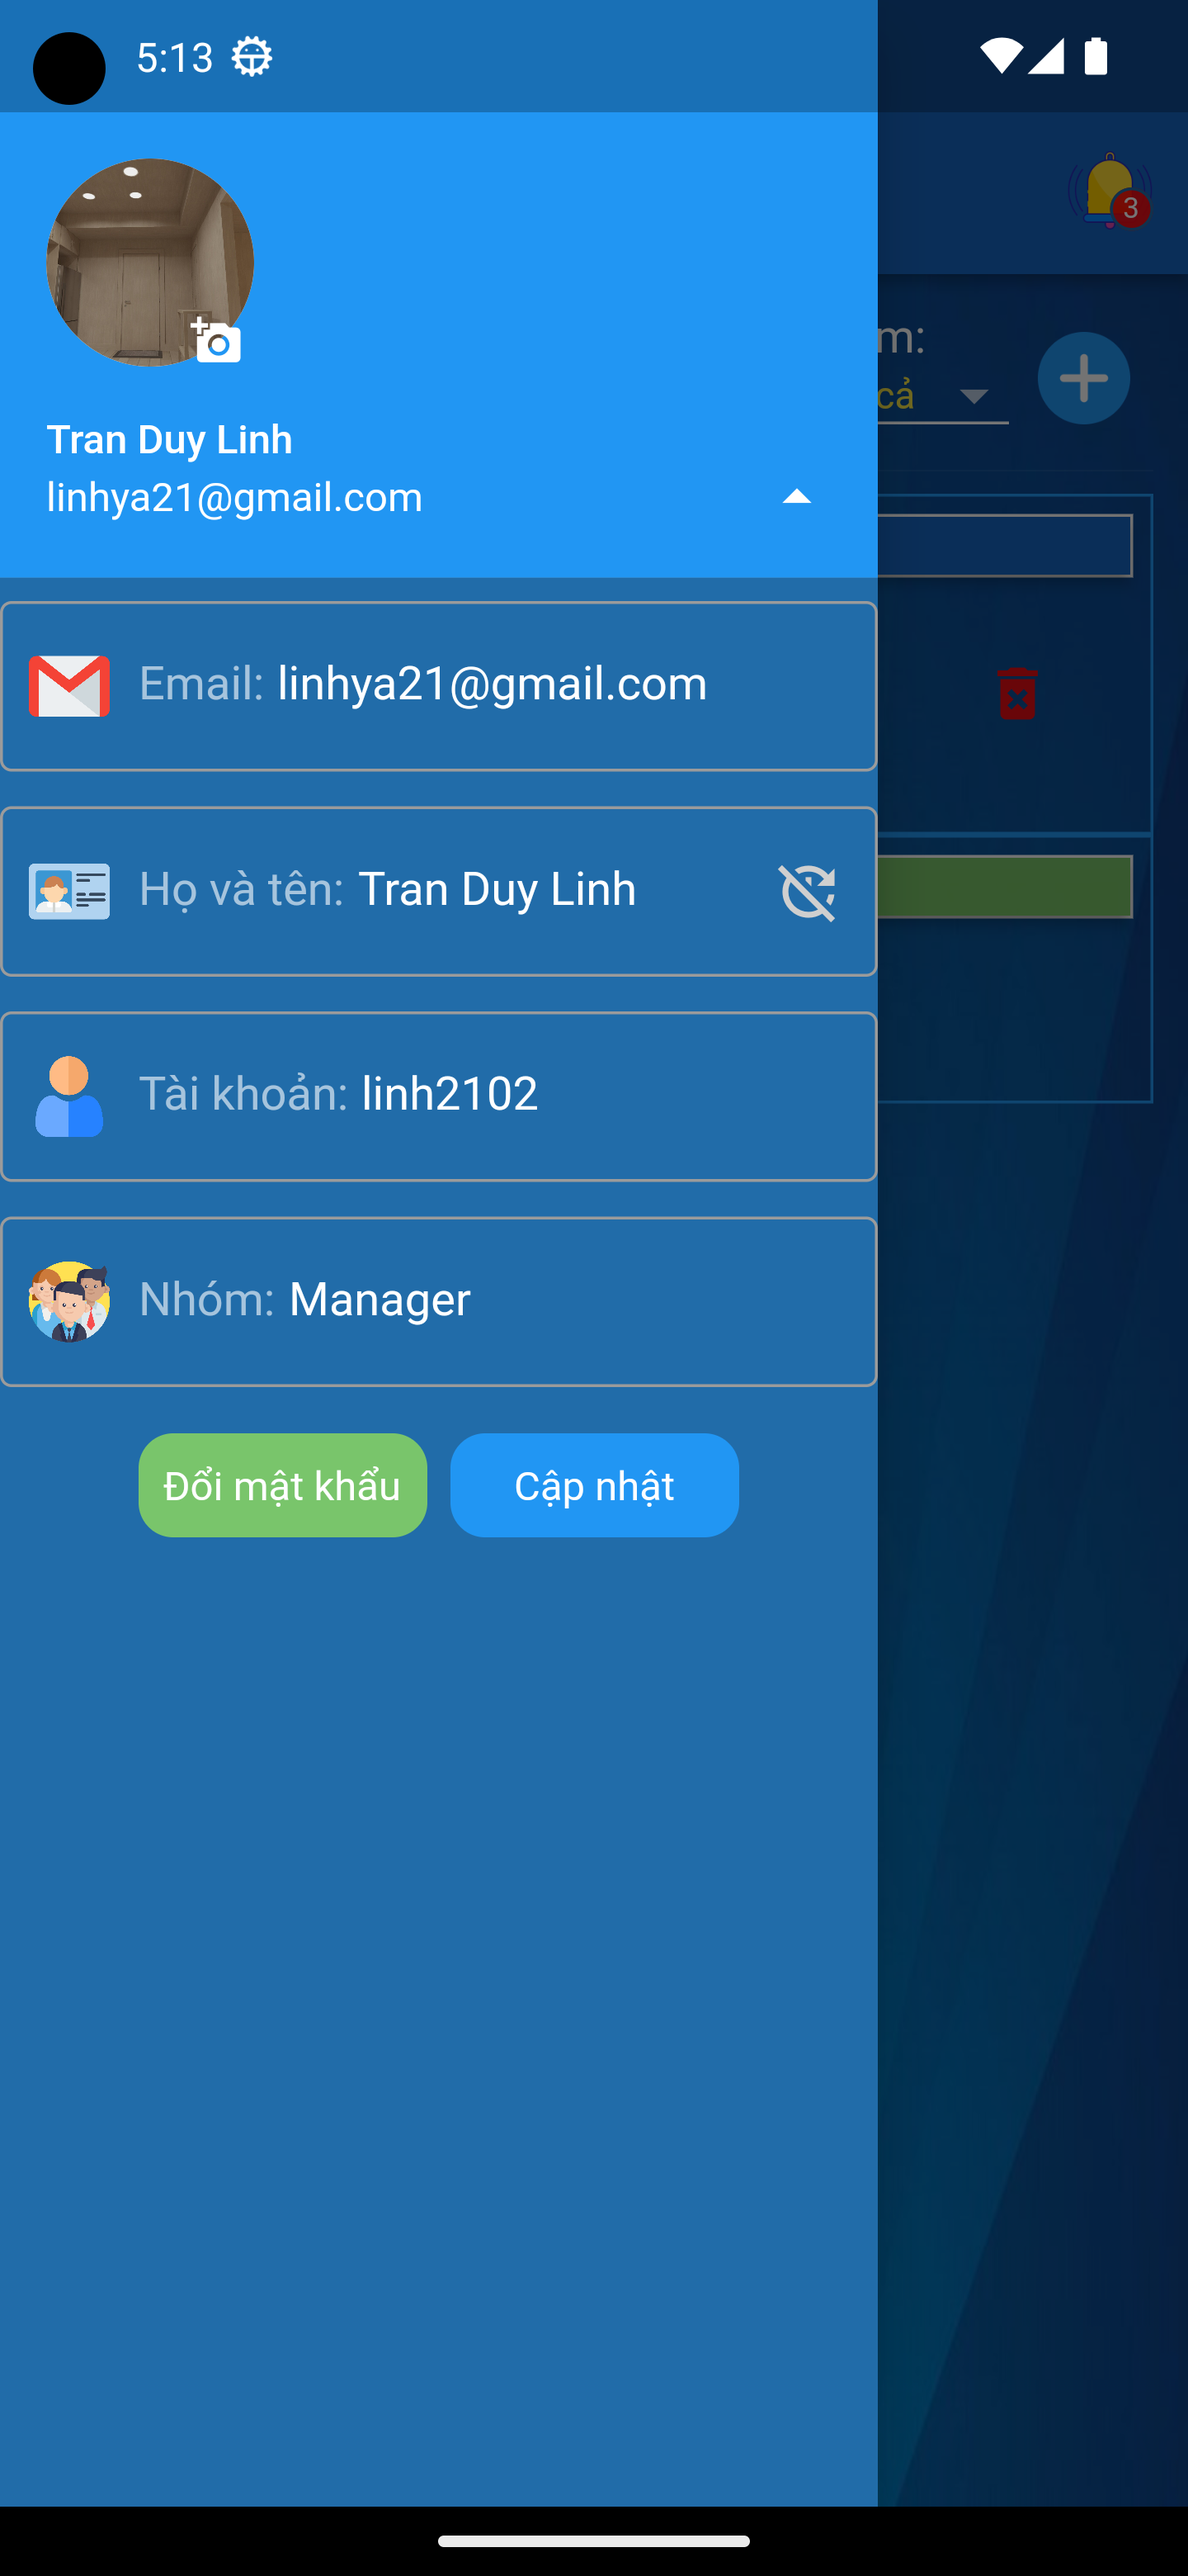
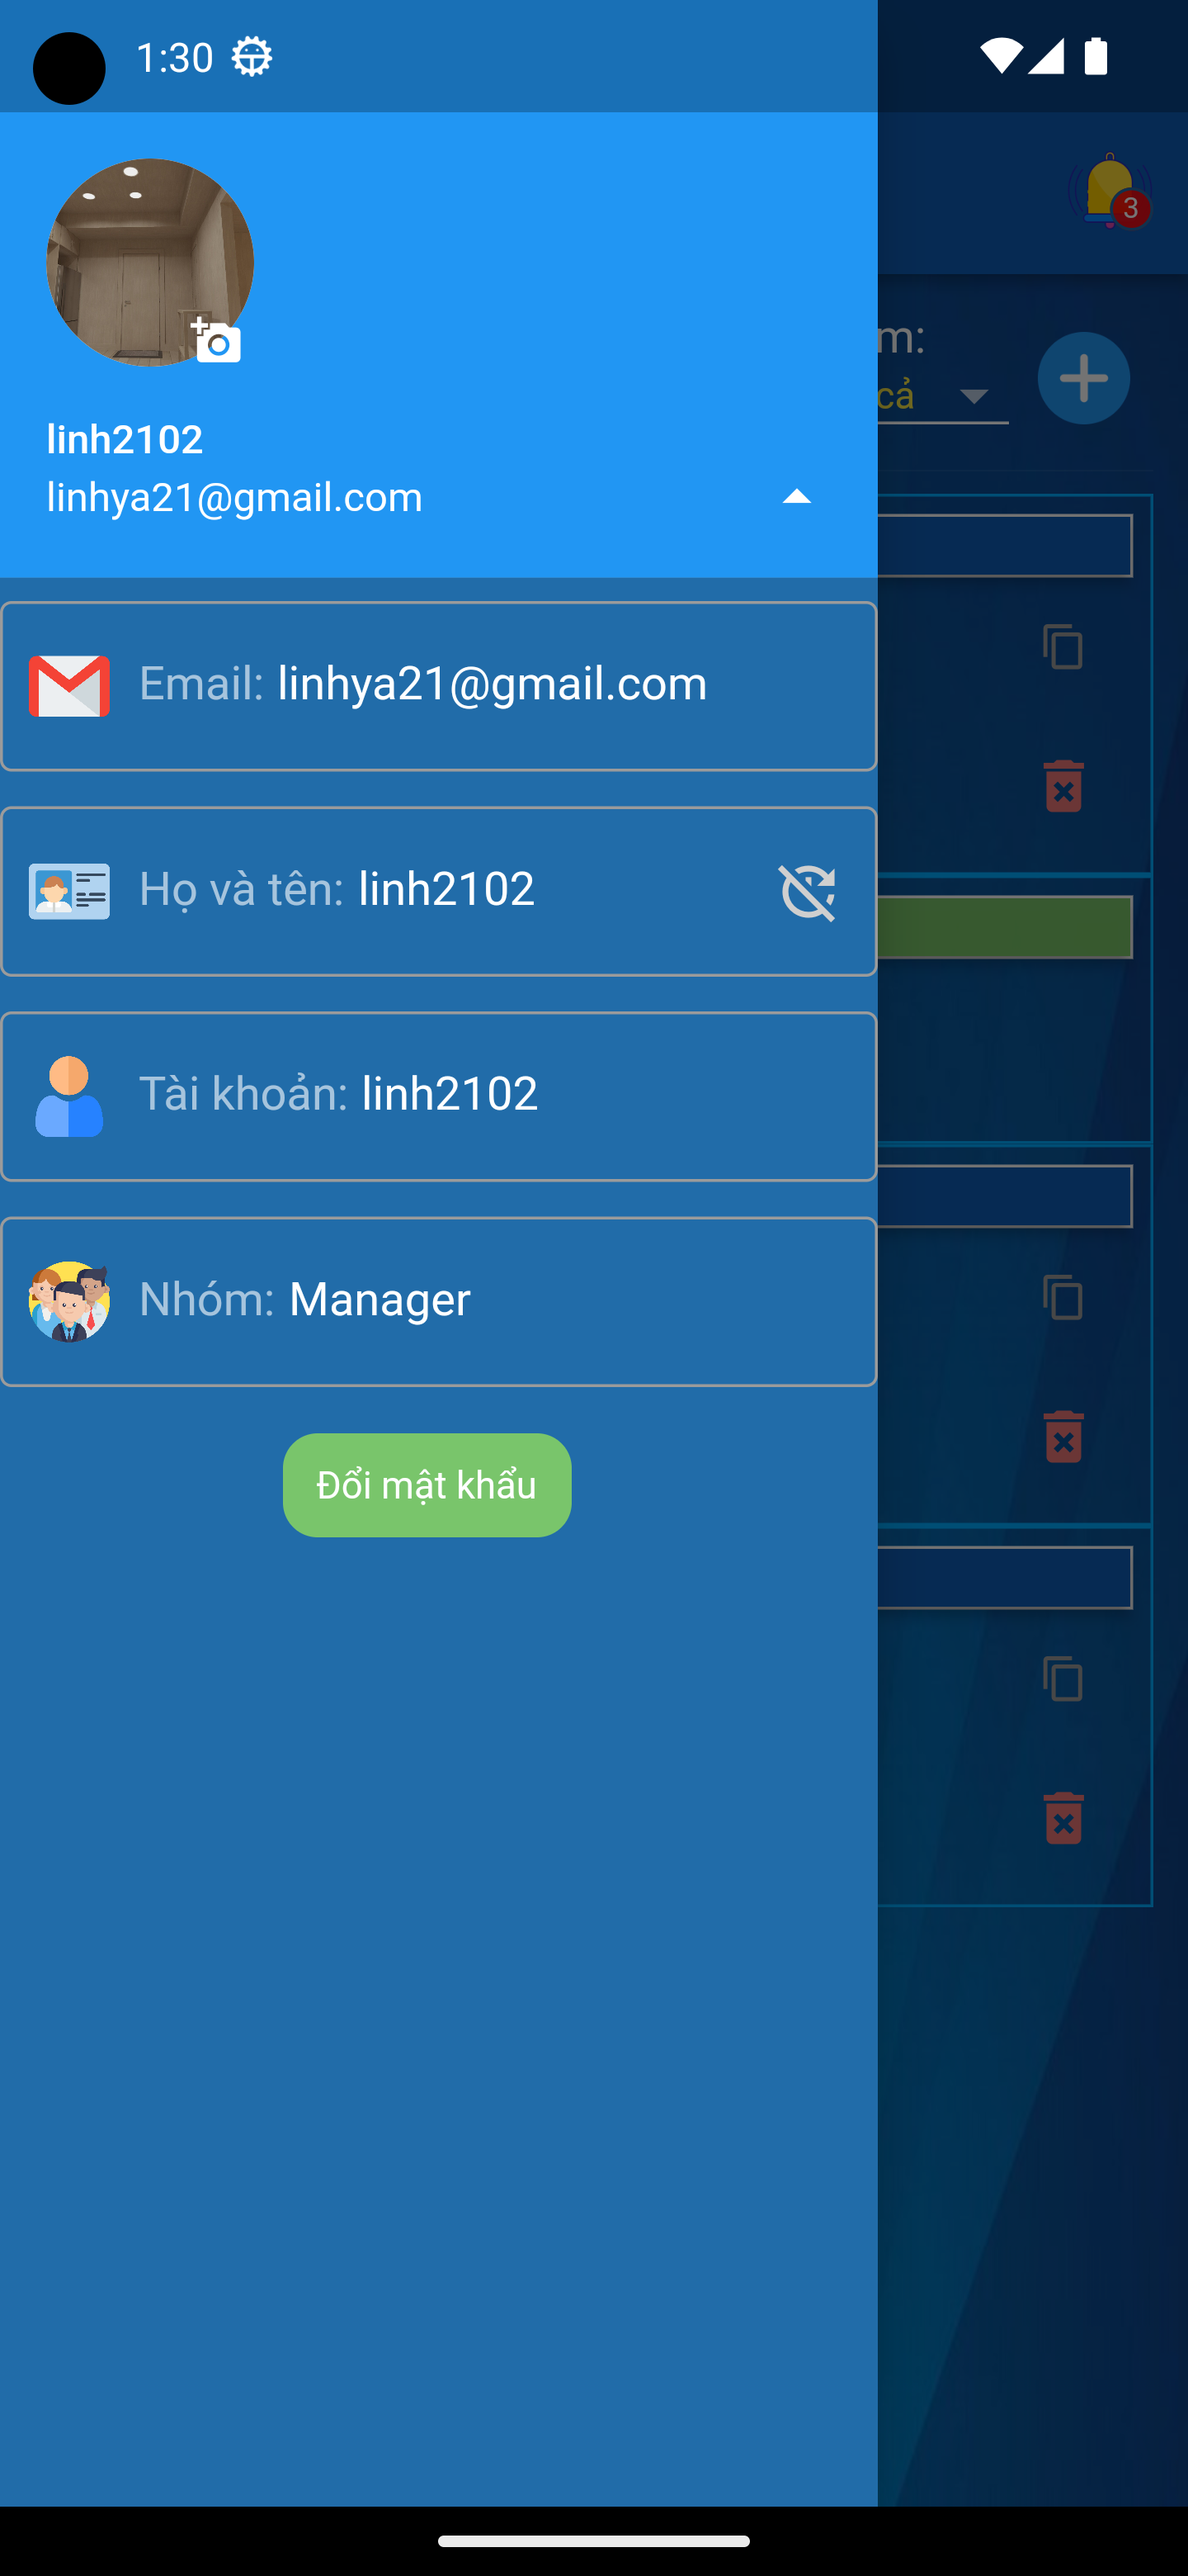
readme

diff --git a/README.md b/README.md
@@ -22,7 +22,7 @@
 
 - Page Nhân sự
 <p align = "center">
-  <img width="180" height="390" src="https://github.com/tranlinh19021320/project_management/blob/main/app_screenshot/search.png" alt="Search Going">
+  <img width="180" height="390" src="https://github.com/tranlinh19021320/project_management/blob/main/app_screenshot/personal.png" alt="Search Going">
   <img width="180" height="390" src="https://github.com/tranlinh19021320/project_management/blob/main/app_screenshot/create_staff.png" alt="Create Staff">
 </p>
 
